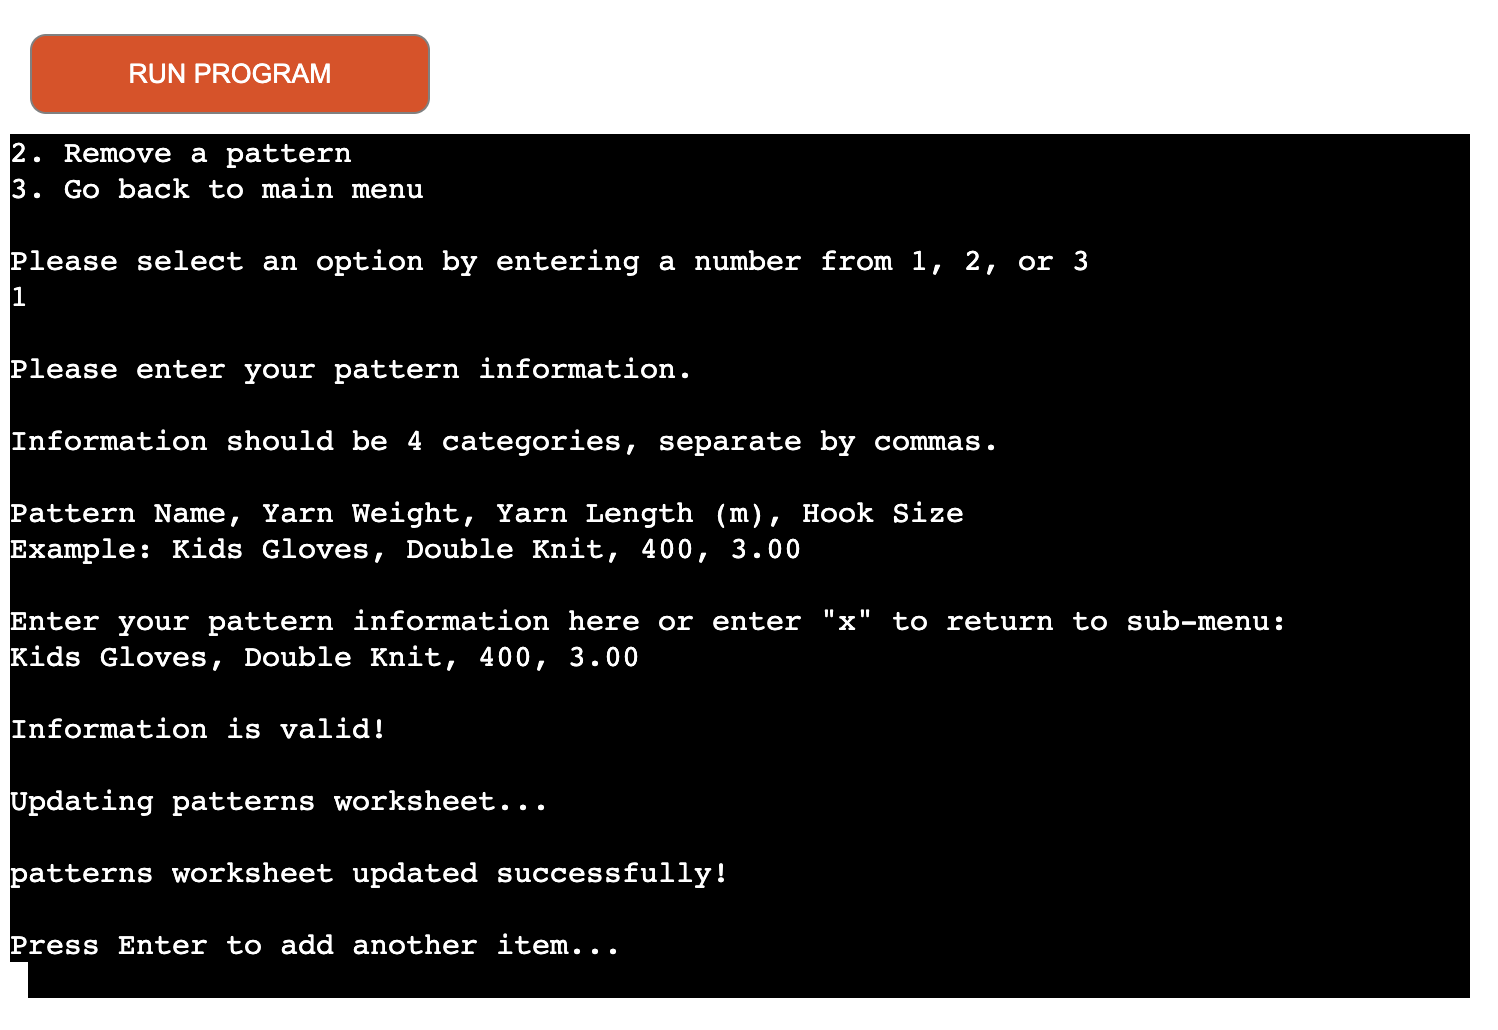
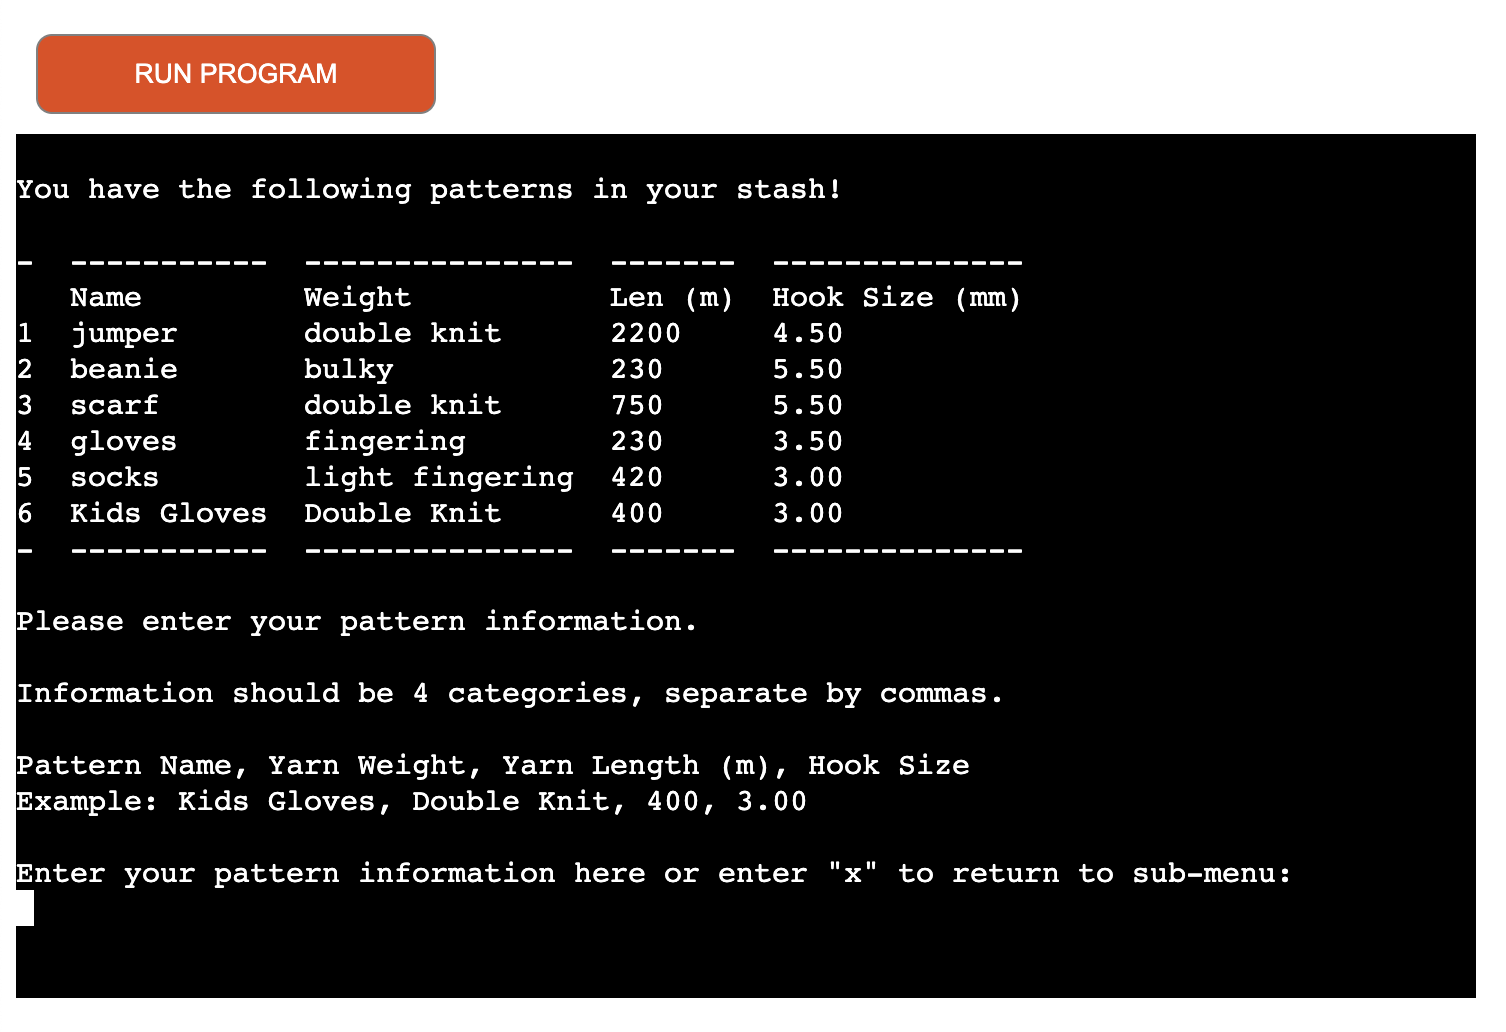
Add images to the features section
Add addtional feature in the future features section

diff --git a/README.md b/README.md
@@ -50,10 +50,13 @@ All the data are stored in Google Sheets and is accessed through API.
         4. Calculate action
         5. Exit program
 
-        <br>
     * The user is prompted to select an option by entering a number respective to the options. If the user enters an incorrect value, an error message will be displayed and prompt the user to re-enter their option.
     * The main menu will keep running until the user selected a valid option or decided to terminate the program.
-    
+
+    <br>
+
+    ![Main Menu](documentation/support_images/yarn_genie_terminal.png)
+
     <br>
 
 * __Show Worksheet__
@@ -75,15 +78,28 @@ All the data are stored in Google Sheets and is accessed through API.
     * Option 3 takes the user back to the main menu.
     
     <br>
+    
+    ![Show Worksheet](documentation/support_images/yarn_genie_yarns_sub.png)
+
+    <br>
 
 * __Add Menu__
 
     * When the user selects the 1st option from the sub-menu, the get_user_data function is called.
     * The user will then be prompted to add data in a Comma Separate Value (CSV) format. An example will be shown above the input field to aid the user with the data entry process
+    
+    <br>
+
+    ![Add Menu](documentation/support_images/yarn_genie_patterns_add.png)
+    
     * The user's input will then be validated;
         * If the user's input is valid, the data will be added to the spreadsheet.
         * If the user's input is invalid, the user will be prompted to re-enter the data.
     * After the user has entered valid data, the user will then be prompted to continue the program, and the updated table with the most recently entered data will be displayed.
+
+    <br>
+    
+    ![Add Success](documentation/support_images/yarn_genie_patterns_add_success.png)
 
     <br>
 
@@ -94,13 +110,28 @@ All the data are stored in Google Sheets and is accessed through API.
     * The user's input will then be validated;
         * If the user's input is valid, the data will be deleted from the spreadsheet.
         * If the user's input is invalid, the user will be prompted to re-enter the data.
-        
+    
     <br>
+
+    ![Remove Menu](documentation/support_images/yarn_genie_patterns_remove_success.png)
+
+    <br>
+
 
 * __Calculate Menu__
 
     * The function is executed when the user selected the 4th option from the main menu.
+    
+    <br>
+
+    ![Calculate Menu](documentation/support_images/yarn_genie_calc_menu.png)
+    
     * The user will be prompted to select a pattern from the database.
+    
+    <br>
+
+    ![Pattern Selected](documentation/support_images/yarn_genie_calc_pattern_selected.png)
+
     * After the selection the program will then calculate these scenarios :
         * Does the user have the correct weight yarn to complete this pattern?
             * TRUE: print out the yarn that will be used. If there is more than 1 match, the user will be prompted to input an option to select from a list. Then move on to the next validation.
@@ -114,6 +145,8 @@ All the data are stored in Google Sheets and is accessed through API.
 
     <br>
 
+    * All the screenshots of the different scenarios can be found ![here]()
+
 ### Feature that could be implemented in the future
 
 * __Graphic User Interface (GUI)__
@@ -123,6 +156,10 @@ All the data are stored in Google Sheets and is accessed through API.
 * __Data Duplication Validation__
 
     * The current version of the program allows the user to enter duplicate data, such as the same yarn multiple times. When Data Duplication Validation is implemented, it can detect duplications in the data and merge them when applicable.
+
+* __Better Data Input Validation__
+
+    * The current version of the program allows the user the input data in CSV format but does not strictly validate the what type of values the user has input. For example, when adding a new pattern the user is given an example "Kids Gloves, Double Knit, 400, 3.00" but if the user input "400, Double Knit, Kids Gloves, 3.00", the program sees this as an valid input.
 
 <br>
 
